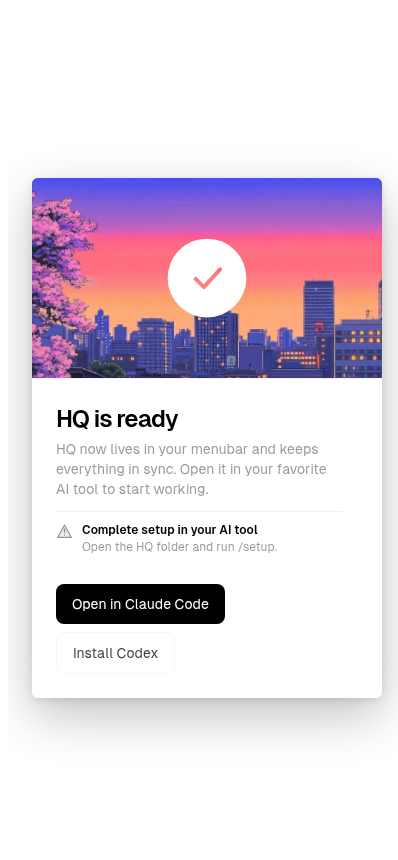
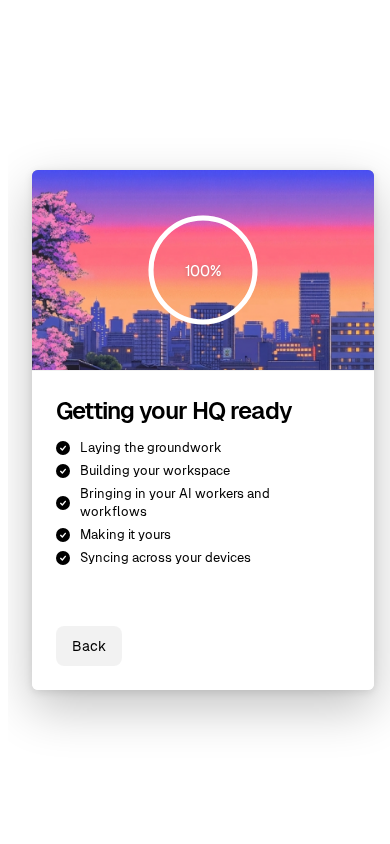
docs: replace onboarding screenshot fixtures

diff --git a/apps/sync/dev-harness/mocks/core.ts b/apps/sync/dev-harness/mocks/core.ts
@@ -49,6 +49,14 @@ function harnessScenario(): string | null {
   return null;
 }
 
+function isOnboardingCaptureScenario(): boolean {
+  const scenario = harnessScenario();
+  return (
+    scenario === 'onboarding-capture-completion-clean' ||
+    scenario === 'onboarding-capture-completion-failed-required-stage'
+  );
+}
+
 const HARNESS_UPDATE = {
   version: '0.10.36-beta.1',
   body: 'Desktop surface repairs and updater recovery.',
@@ -1133,7 +1141,37 @@ This final paragraph verifies spacing after a thematic break.
   notification_permission_state: () =>
     harnessScenario() === 'permission-denied' ? 'denied' : 'prompt',
   notification_request_permission: () => 'granted',
-  resolve_hq_path: () => '/Users/corey/Documents/HQ',
+  // Screenshot capture fixtures exercise the real wizard setup flow with
+  // placeholder-only data. The failure fixture rejects one required command;
+  // it exists only in the browser design harness, never in the desktop app.
+  resolve_hq_path: () =>
+    isOnboardingCaptureScenario() ? '/Users/Placeholder/HQ' : '/Users/corey/Documents/HQ',
+  read_install_manifest: () =>
+    isOnboardingCaptureScenario()
+      ? {
+          schemaVersion: 1,
+          installerVersion: 'preview',
+          installPath: '/Users/Placeholder/HQ',
+          startedAt: '2026-01-01T00:00:00.000Z',
+          completedAt: null,
+          steps: {},
+        }
+      : null,
+  install_deps: () => {
+    if (
+      harnessScenario() === 'onboarding-capture-completion-failed-required-stage'
+    ) {
+      throw new Error('Preview required dependency stage failed');
+    }
+    return null;
+  },
+  // Hold the final journal write only for capture so a settled real checklist
+  // remains visible long enough for a browser screenshot.
+  record_install_complete: () =>
+    harnessScenario() === 'onboarding-capture-completion-clean' ||
+    harnessScenario() === 'onboarding-capture-completion-failed-required-stage'
+      ? new Promise<never>(() => {})
+      : null,
   // Scenarios let the Ready screen be inspected in every machine state the
   // real detector can produce: `?scenario=tools-claude-only` (the fresh-VM
   // case that has only Claude Code), `?scenario=tools-codex-only`, and
